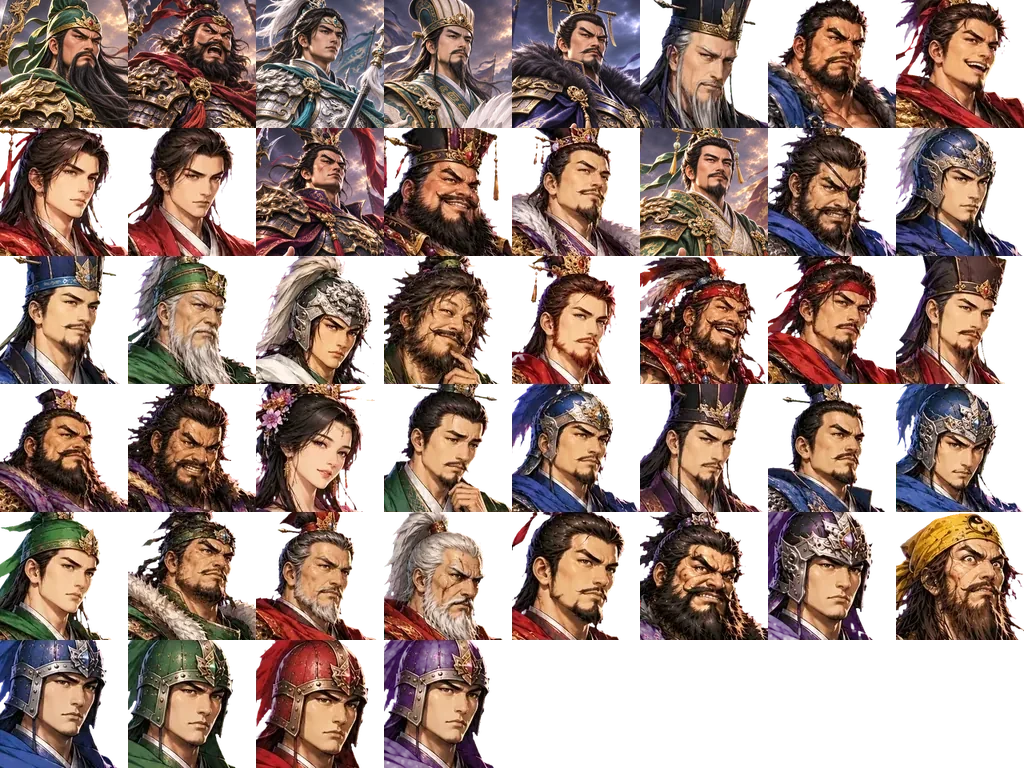
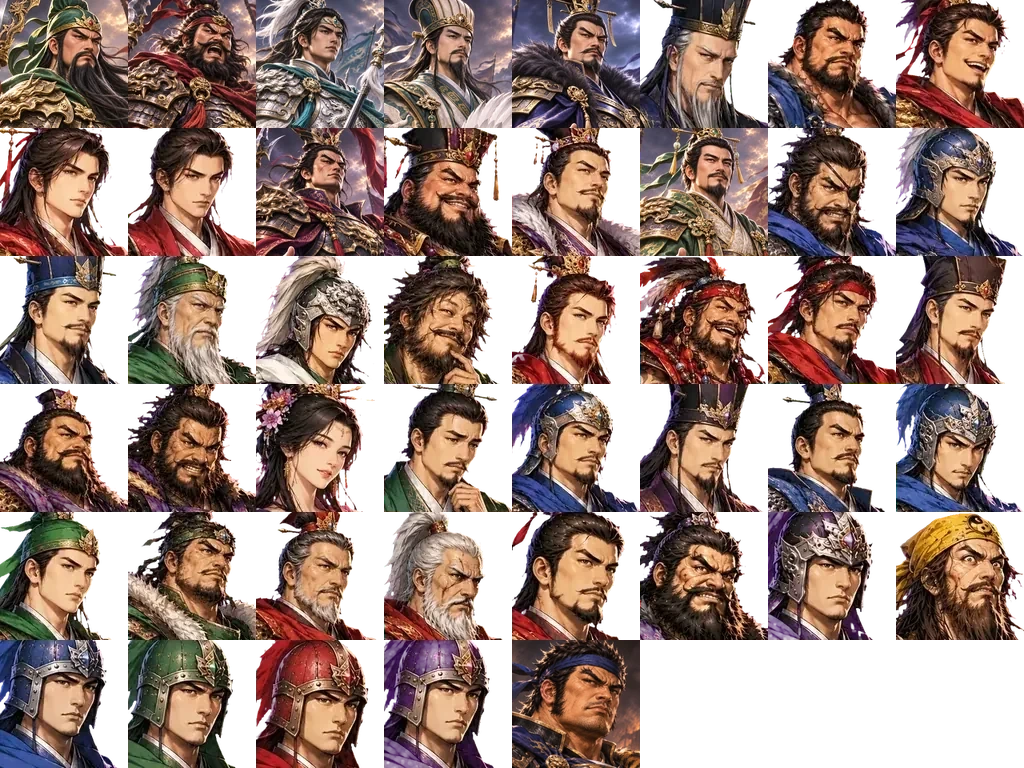
천하등용 v36: 히든 장수 악래 전위 (전용 그림·초상화)
- SD 몸·무기·공격 자세, 초상화 아틀라스 44번 칸
- 허저+조조+우금, 성벽 +1과 주변 베기. sw 캐시 cheonha-main-9

Claude-Session: https://claude.ai/code/session_01BVqfE4XTCJeqFVfWfm9FME

Changed region(s): [[0.5, 0.8125, 0.625, 1.0]]

diff --git a/v34.js b/v34.js
@@ -2,7 +2,7 @@
    천하등용 v34 — 장수 이름표 · 히든 장수 4명 · 전장 안내 표시 (2026-11-25)
    한국어(index.html)·중국어(zh.html) 공용. v33.js 다음에 불러온다.
    1. 이름표: 칸 아래에 장수 이름(등급 색). 본편 render가 V34Labels()를 부른다.
-   2. 히든 장수 8명: 호치 허저·위풍 장료(위) · 금마초·봉추 방통·단복 서서(촉) · 화신 육손·신궁 태사자(오) · 마왕 동탁(군웅). 그림은 원래 장수 것을 씀.
+   2. 히든 장수 9명: 호치 허저·위풍 장료·악래 전위(위) · 금마초·봉추 방통·단복 서서(촉) · 화신 육손·신궁 태사자(오) · 마왕 동탁(군웅). 그림은 원래 장수 것을 씀.
    3. 안내 표시: 같은 장수 합성 가능 ▲(세력 3·혼합 4는 표시 안 함), 히든 조합 가능 금색 고리, 성 밖 적 60명부터 붉은 테두리, 진동
    4. 처음 하는 사람은 설명 카드 없이 바로 튜토리얼 (타이틀에서 1번 누르면 시작)
    ========================================================================== */
@@ -23,13 +23,15 @@ const M=[
  ['m_seoseo',T('단복 서서','单福徐庶'),1,[76,88,99,86,60],T('서서','徐庶'),'seoseo','talisman',{sp:'insight',d:T('간파: 방패병·군의관의 능력을 없앰','看破：使盾兵·军医的能力失效')},['seoseo','gwanpyeong','yubi']],
  ['m_taesaja',T('신궁 태사자','神射太史慈'),2,[100,88,70,80,50],T('태사자','太史慈'),'taesaja','bow',{sp:'volley',d:T('3초마다 적 6명에게 연속 사격','每3秒向6名敌人连射')},['taesaja','gamnyeong','handang']],
  ['m_jangryo',T('위풍 장료','威震张辽'),0,[99,100,80,78,44],T('장료','张辽'),'jangryo','blade',{sp:'execute',d:T('주변의 체력 25% 이하 적을 즉시 처치 (적장 제외)','立即斩杀周围生命低于25%的敌人（敌将除外）')},['jangryo','ugeum','join']],
+ // v36 전위 (전용 그림: sd_jeonwi_*, 초상화 jeonwi)
+ ['m_jeonwi',T('악래 전위','恶来典韦'),0,[100,84,44,70,40],T('전위','典韦'),'jeonwi','glaive',{sp:'guardian',d:T('성벽 +1 · 2.5초마다 쌍철극으로 주변 적 전부 베기','城墙+1 · 每2.5秒双戟横扫周围敌军')},['heojeo','jojo','ugeum']],
 ];
 window.MALIAS=window.MALIAS||{};
 for(const [id,n,f,s,sn,base,wp,ex,rec] of M){if(UID[id])continue;add(id,n,f,4,s,sn,ex);UID[id]=U[U.length-1];
   MALIAS[id]=base;PALIAS[id]=base;WEAPON[id]=wp;if(window.SDV&&SDV.alias)SDV.alias[id]=base;
   RECIPES.push({out:id,in:rec});rec.forEach(k=>{try{KEEP.add(k);}catch(e){}});}
 window.buffs=(o=>function(){o.apply(this,arguments);if(!G)return;if(G.slots.some(u=>u&&u.d.sp==='warlord'))for(const u of G.slots)if(u&&u.d.f===3)u.atk*=1.4;})(buffs);
-const SP=new Set(['quake','smite','blaze','chain','volley','execute']);
+const SP=new Set(['quake','smite','blaze','chain','volley','execute','guardian']);
 window.dmgEnemy=(o=>function(e,v){if(e.chainT>0)arguments[1]=v*1.3;return o.apply(this,arguments);})(dmgEnemy);
 window.update=(o=>function(dt){const g=G;o.apply(this,arguments);if(!g||G!==g||g.over||g.paused||g.hold)return;
   for(const e of g.enemies)if(e.chainT>0)e.chainT-=dt;
@@ -37,6 +39,8 @@ window.update=(o=>function(dt){const g=G;o.apply(this,arguments);if(!g||G!==g||g
   for(let i=0;i<g.slots.length;i++){const u=g.slots[i];if(!u||!u.d.sp)continue;const sp=u.d.sp;if(!SP.has(sp))continue;
     const [x,y]=slotXY(i);u.v34T=(u.v34T||0)+dt;
     const near=()=>g.enemies.filter(e=>e.hp>0&&Math.hypot(e.x-x,e.y-y)<u.range);
+    if(sp==='guardian'){if(!u.v34G){u.v34G=1;g.walls++;g.walls0++;g.txt.push({x,y:y-34,s:T('성벽 +1','城墙 +1'),t:0,c:'#ffd27a',big:1});}
+      if(u.v34T>2.5){const es=near();if(!es.length)continue;u.v34T=0;for(const e of es)dmgEnemy(e,u.atk*2,false);g.fx.push({k:'ring',x,y,r:u.range,t:0,d:.35,c:'#9bb8ff'});sfx('slash');}continue;}
     if(sp==='quake'&&u.v34T>5){const es=near();if(!es.length)continue;u.v34T=0;for(const e of es){dmgEnemy(e,u.atk*2,false);e.frz=Math.max(e.frz||0,e.boss?.5:1.2);}
       g.fx.push({k:'ring',x,y,r:u.range,t:0,d:.45,c:'#ffd27a'});g.shake=Math.max(g.shake,4);sfx('thud');}
     else if(sp==='smite'&&u.v34T>4){const es=near();if(!es.length)continue;u.v34T=0;const e=es.reduce((a,b)=>b.hp>a.hp?b:a);dmgEnemy(e,u.atk*5,true);

diff --git a/sd/sdv.js b/sd/sdv.js
@@ -8,6 +8,7 @@ const BASE='sd/';
 /* per general: hand = grip point on the body image (512 space), grip = grip point on the weapon image (512 space),
    rest = weapon angle at rest (deg, 0 = pointing right), move = attack motion, fx = effect image                     */
 const CH={
+ jeonwi:{hand:[391,302],grip:[155,223],rest:-40,move:'slash',fx:'fx_slash',ws:.6},
  gwanu:{hand:[340,300],grip:[236,222],rest:-58,move:'slash',fx:'fx_slash',ws:.9},
  joun:{hand:[330,312],grip:[214,229],rest:-18,move:'thrust',fx:'fx_thrust',ws:.85},
  hwangchung:{hand:[398,288],grip:[300,255],rest:0,move:'shoot',fx:'fx_arrow_trail',ws:.62},
@@ -37,9 +38,9 @@ const GEN2={ugeum:0,akjin:0,join:0,gwanpyeong:0,seoseo:0,madae:0,jeongbo:0,hwang
 const ALIAS={m_gwanu:'gwanu',m_joun:'joun',m_jegal:'jegal',m_jojo:'jojo',m_sonchaek:'sonchaek',m_yeopo:'yeopo',m_jangbi:'jangbi',m_samaui:'samaui',m_juyu:'juyu',m_wonso:'wonso'};
 const IMG={};let ready=false;
 /* attack poses (weapon drawn in the picture): add ids here when sd_<id>_atk.webp files arrive */
-const ATK=['gwanu','joun','macho','samaui','sonchaek','yeopo','jojo','yukson','choseon','dongtak','gamnyeong','heojeo','hwangchung','jangbi','jangryo','jegal','juyu','taesaja','wonso','yubi'];
+const ATK=['gwanu','joun','macho','samaui','sonchaek','yeopo','jojo','yukson','choseon','dongtak','gamnyeong','heojeo','hwangchung','jangbi','jangryo','jegal','juyu','taesaja','wonso','yubi','jeonwi'];
 /* poses drawn smaller inside their frame (room for the weapon): scale up around the feet so the body matches the idle size */
-const ASC={gamnyeong:1.22,heojeo:1.13,hwangchung:1.11,jangbi:1.42,jangryo:1.22,jegal:1.1,juyu:1.12,taesaja:1.08,wonso:1.2,yubi:1.12};
+const ASC={gamnyeong:1.22,heojeo:1.13,hwangchung:1.11,jangbi:1.42,jangryo:1.22,jegal:1.1,juyu:1.12,taesaja:1.08,wonso:1.2,yubi:1.12,jeonwi:1.2};
 /* soldiers hold their weapon in the drawing: body-only motion */
 const SOL={w_sp:'thrust',s_sp:'thrust',o_sp:'thrust',q_sp:'thrust',w_ar:'shoot',s_ar:'shoot',o_ar:'shoot',q_ar:'shoot'};
 const MYTH=['m_gwanu','m_jegal','m_jojo','m_sonchaek','m_yeopo','m_joun','m_jangbi','m_samaui','m_juyu','m_wonso'],FACFX=['fx_wei','fx_shu','fx_wu','fx_qun'];

diff --git a/index.html b/index.html
@@ -387,7 +387,7 @@ add('m_yeopo','무신 여포',3,4,[100,99,40,50,20],'여포',{sp:'god',d:'게임
 add('m_joun','상산 조자룡',1,4,[100,96,84,90,70],'조운',{sp:'pierce',d:'일직선 관통 공격'});
 const UID={};U.forEach(u=>UID[u.id]=u);
 /* portraits (made for this game) */
-const PKEYS=["gwanu", "jangbi", "joun", "jegal", "jojo", "samaui", "heojeo", "sonchaek", "juyu", "yukson", "yeopo", "dongtak", "wonso", "yubi", "hahudon", "jangryo", "sunuk", "hwangchung", "macho", "bangtong", "songwon", "gamnyeong", "taesaja", "yeomong", "anryang", "munchu", "choseon", "seoseo", "join", "jingung", "ugeum", "akjin", "gwanpyeong", "madae", "jeongbo", "hwanggae", "handang", "hwaung", "gosun", "jangak", "sol_w", "sol_s", "sol_o", "sol_q"],PCOLS=8,PCELL=128;
+const PKEYS=["gwanu", "jangbi", "joun", "jegal", "jojo", "samaui", "heojeo", "sonchaek", "juyu", "yukson", "yeopo", "dongtak", "wonso", "yubi", "hahudon", "jangryo", "sunuk", "hwangchung", "macho", "bangtong", "songwon", "gamnyeong", "taesaja", "yeomong", "anryang", "munchu", "choseon", "seoseo", "join", "jingung", "ugeum", "akjin", "gwanpyeong", "madae", "jeongbo", "hwanggae", "handang", "hwaung", "gosun", "jangak", "sol_w", "sol_s", "sol_o", "sol_q", "jeonwi"],PCOLS=8,PCELL=128;
 const PIMG={};const PURL={};
 const ATL={pending:{}};
 function loadAtlas(src,onload,tries){tries=tries||0;ATL.pending[src]={onload,tries};const im=new Image();
@@ -2152,7 +2152,7 @@ window.sell=(orig=>function(i){const u=G.slots[i];if(u&&u.d.g>=2&&!(G.sellArm===
     else if(G.paused&&!anyOpen())showOnly('pause');},700);
   // 게임 중에 약관을 열면 판이 날아가지 않도록 새 창으로
   const lb=document.getElementById('optLegal');if(lb)lb.onclick=()=>{const u=V30ZH?'legal-zh.html':'legal.html';if(G&&!G.over){if(!window.open(u,'_blank'))flash(u);}else location.href=u;};
-  window.__verTxt='v35 · 1125';
+  window.__verTxt='v36 · 1125';
 })();
 document.getElementById('stGo').onclick=()=>{auInit();newGame('scn',storyI,storyTier);};
 document.getElementById('campBack').onclick=()=>{showOnly(campFrom);if(campFrom==='title')updateTitle();};

diff --git a/sw.js b/sw.js
@@ -1,5 +1,5 @@
 // Offline support: online -> newest files first, offline -> saved copy.
-const CACHE='cheonha-main-8';
+const CACHE='cheonha-main-9';
 // 이 캐시는 /cheonha/ 루트의 천하등용 파일만 다룬다. 다른 게임 폴더(town, wolchuk 등)는 건드리지 않는다.
 const OWN=/^(?:[^/]*|(?:art|audio|sd)\/.*)$/;
 const OLD=['cheonha-','cheonhav30sd-','cheonhav28test-','cheonhav20test-'];

diff --git a/docs/cheonha/HANDOFF.md b/docs/cheonha/HANDOFF.md
@@ -1,4 +1,4 @@
-# 천하등용 인수인계 (2026-11-15, 빌드 v35 · 1125)
+# 천하등용 인수인계 (2026-11-15, 빌드 v36 · 1125)
 
 > v31: 진단 리포트 적용. 새 기능·밸런스는 `v31.js`(한·중 공용, BAL 표)에. 변경 내용은 V30_CHANGES.md 끝 'v31'.
 
@@ -14,7 +14,7 @@
 - legion_core.js(전투 계산, step/dmg/cast 밸런스 기준) / legion_ui.js(캔버스 화면). 증원군(출전3+증원3, 관문 5/15/30 해금), 자동/수동, 군략 카드 3종.
 - platform.js: 통계 CH_TRACK + 보상형 광고 CH_AD (네 화면 공통, 미니게임 이식 때 이 파일만 교체). 실제 광고는 window.CHEONHA_REWARDED_AD.show({placement})→Promise<bool> 하나만 넣으면 전부 연결. ?stats=1 로 기기 통계 보기.
 - legal.html / legal-zh.html: 약관·개인정보(·健康游戏忠告). 붉은 칸 = 출시 전 입력할 운영자 정보.
-- sw.js(루트): 캐시 이름 `cheonha-main-N` (현재 8). 파일 바꾸면 N+1. 루트 파일과 art/·audio/·sd/만 다루고 다른 게임 폴더 요청은 통과시킴. 옛 천하등용 캐시(cheonha-·cheonhav30sd-·v28test·v20test)만 지움.
+- sw.js(루트): 캐시 이름 `cheonha-main-N` (현재 9). 파일 바꾸면 N+1. 루트 파일과 art/·audio/·sd/만 다루고 다른 게임 폴더 요청은 통과시킴. 옛 천하등용 캐시(cheonha-·cheonhav30sd-·v28test·v20test)만 지움.
 - audio/: bgm_menu·bgm_battle·bgm_boss·bgm_legion (사용자 제공 음원, battle_music·China Chinese Epic Music 출처 확인 필요).
 
 ## 검사 방법

diff --git a/docs/cheonha/V30_CHANGES.md b/docs/cheonha/V30_CHANGES.md
@@ -140,3 +140,7 @@
 ## v35 (2026-11-25 · 히든 장수 4명 추가, 총 18명) — `v34.js`에 이어서
 - 봉추 방통=방통+유비+황충(7초마다 연환계: 둔화 + 받는 피해 +30% 4초) · 단복 서서=서서+관평+유비(방패병·군의관 능력 무효) · 신궁 태사자=태사자+감녕+한당(3초마다 6명 연사) · 위풍 장료=장료+우금+조인(체력 25% 이하 일반 적 즉시 처치)
 - 전위는 그림(SD 몸·초상화)이 없어 보류. 그림이 오면 같은 방식으로 추가
+
+## v36 (2026-11-25 · 악래 전위, 히든 19명)
+- 전용 그림 추가: sd/sd_jeonwi_body·weapon·atk.webp(192, 512 기준 hand [391,302]·grip [155,223]·ws .6·공격 자세 배율 1.2), 초상화는 portraits.webp 44번 칸(PKEYS 끝 'jeonwi')
+- 악래 전위 = 허저 + 조조 + 우금. 성벽 +1(등장 시 1회), 2.5초마다 주변 적 전부 2배 베기. v34.js M 표
